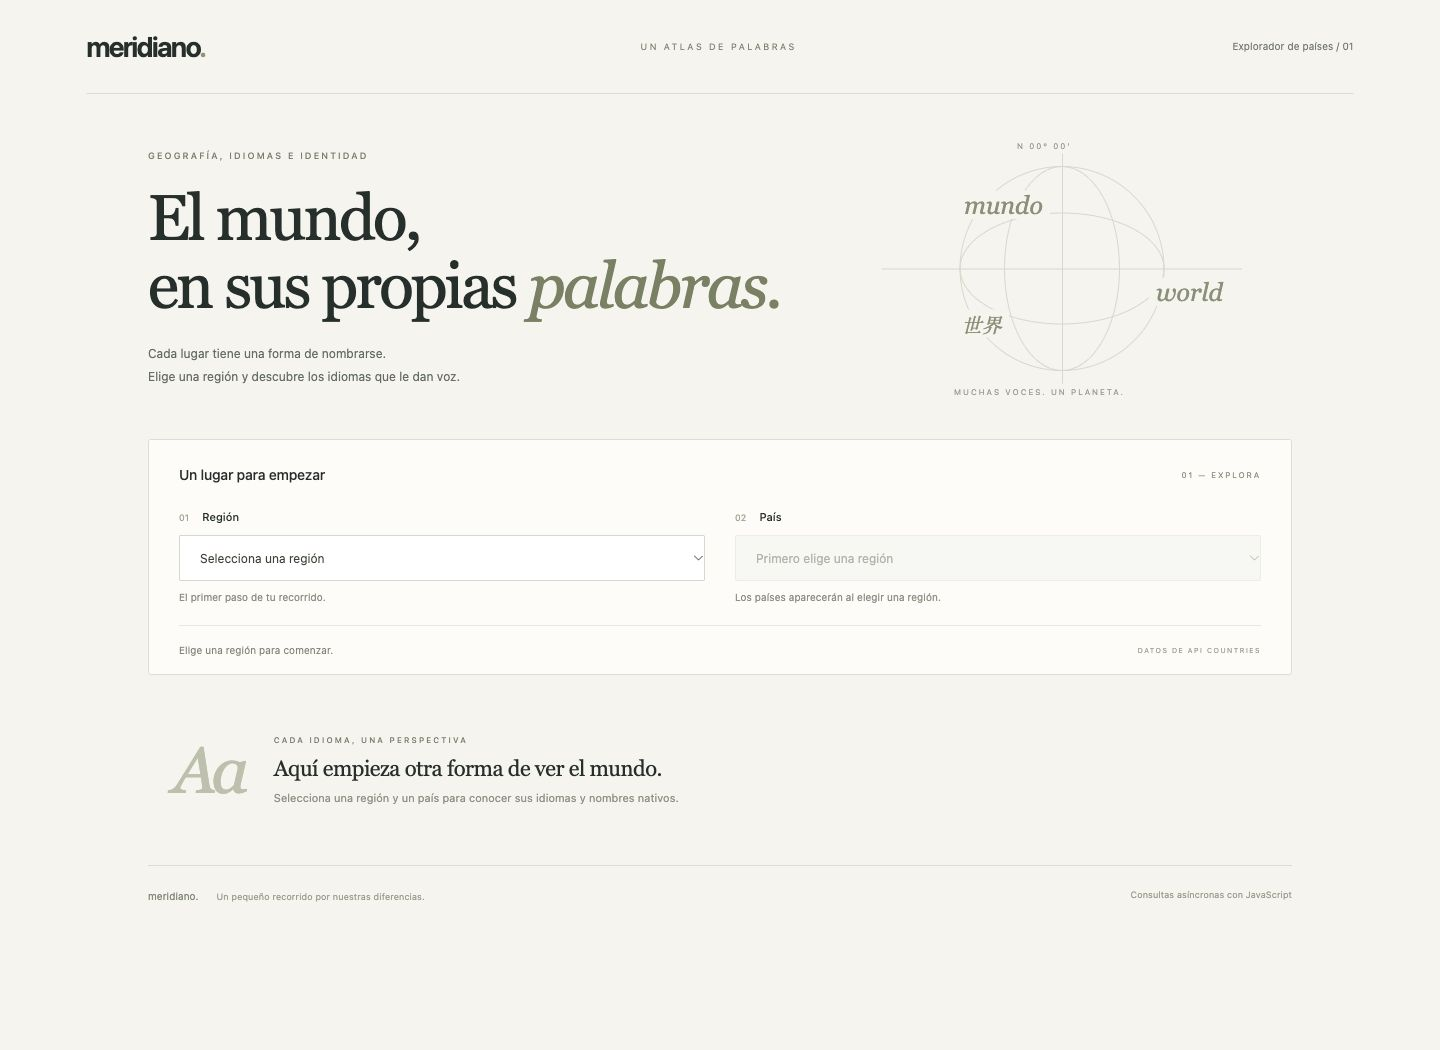
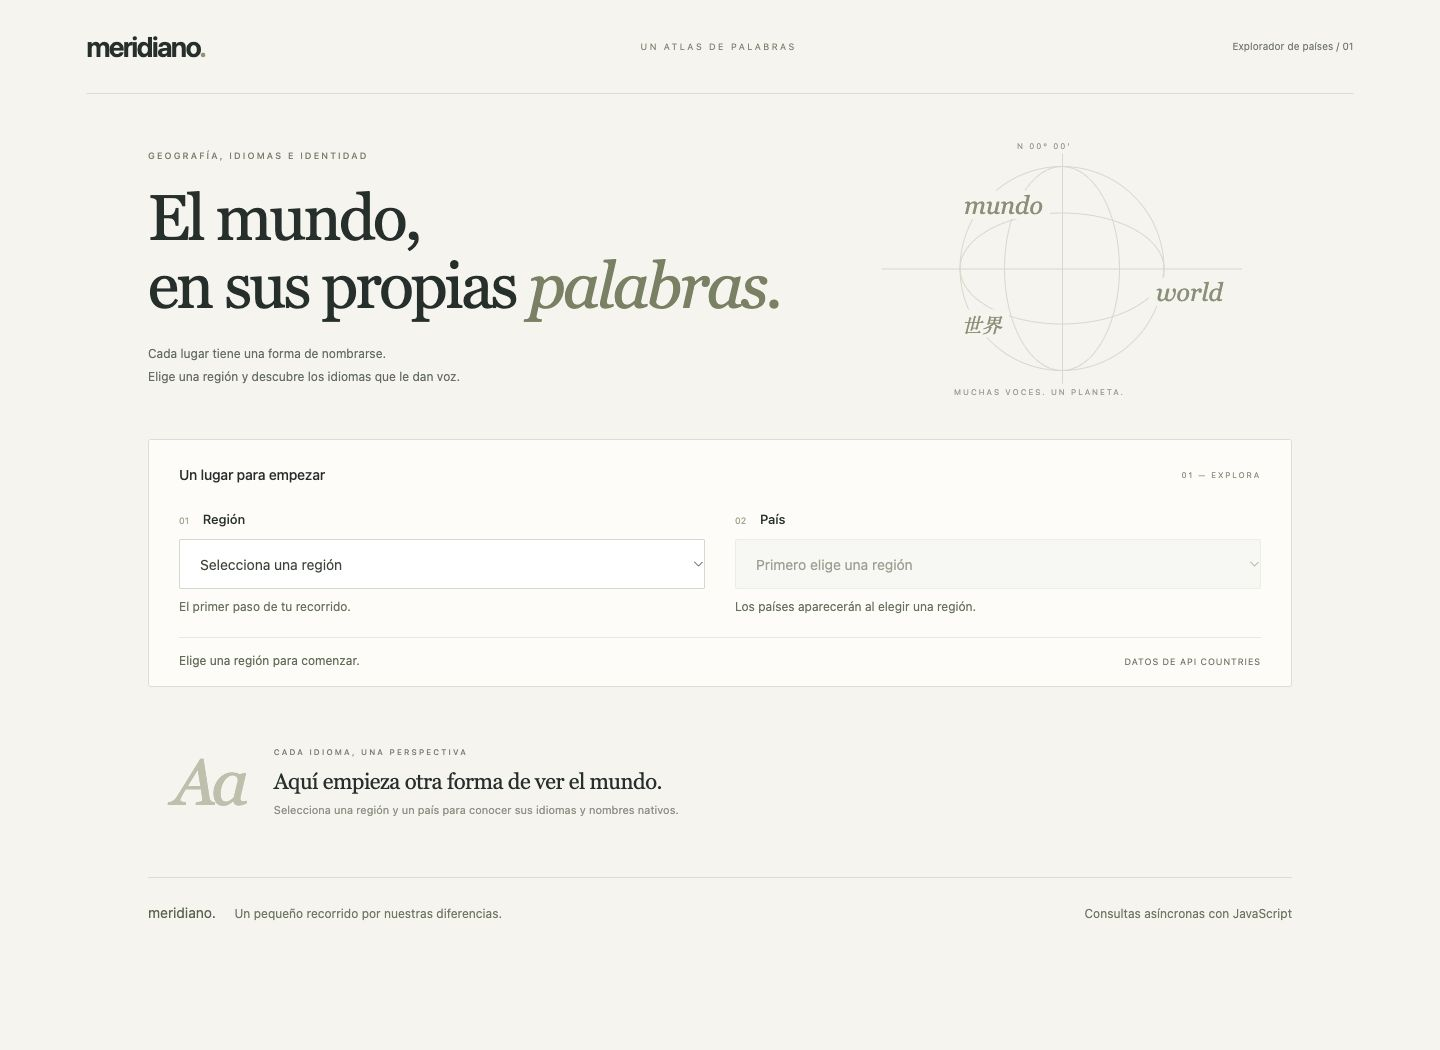
Mejorar legibilidad de selectores y localizar países e idiomas al español

diff --git a/estilos.css b/estilos.css
@@ -1,1 +1,25 @@
 :root{--papel:#f6f4ef;--tinta:#242f2b;--secundario:#626c63;--linea:#dcded4;--acento:#6b7354;--blanco:#fdfcf9}*{box-sizing:border-box}body{margin:0;background:var(--papel);color:var(--tinta);font:14px/1.6 -apple-system,BlinkMacSystemFont,'Segoe UI',sans-serif}button,select{font:inherit}a{color:inherit}.cabecera{height:94px;border-bottom:1px solid var(--linea);display:flex;align-items:center;justify-content:space-between;margin:0 6%;gap:20px}.marca{font-size:28px;letter-spacing:-1.7px;font-weight:650;text-decoration:none}.marca span{color:#8e9573}.cabecera-descripcion{font-size:9px;letter-spacing:2.3px;color:#7c826f}.edicion{font-size:10px;color:#727a6e}main{max-width:1240px;margin:auto;padding:0 48px}.presentacion{display:grid;grid-template-columns:1.4fr 1fr;align-items:center;min-height:345px;gap:40px;padding:36px 0 32px}.antetitulo{font-size:9px;letter-spacing:2px;font-weight:500;color:#7a806d;margin:0 0 20px}h1{font:normal clamp(40px,4.5vw,64px)/1.07 Georgia,'Times New Roman',serif;letter-spacing:-2.6px;margin:0}h1 em{font-weight:400;color:#788061}.descripcion{color:var(--secundario);font-size:12px;line-height:1.9;margin:22px 0 0}.composicion{height:260px;position:relative;max-width:360px;width:100%;justify-self:center;overflow:hidden}.orbita{position:absolute;left:50%;top:50%;border:1px solid #d6d9cb;border-radius:50%;width:205px;height:205px;transform:translate(-50%,-50%)}.orbita-dos{width:116px}.orbita-tres{height:112px}.composicion:before,.composicion:after{content:'';position:absolute;background:#d6d9cb}.composicion:before{height:1px;left:0;right:0;top:50%}.composicion:after{width:1px;top:15px;bottom:15px;left:50%}.palabra{position:absolute;z-index:1;font:italic 25px Georgia,serif;color:#8a9177;background:var(--papel);padding:0 7px}.palabra-uno{top:52px;left:75px}.palabra-dos{top:139px;right:12px}.palabra-tres{top:171px;left:73px;font-size:20px}.coordenada{position:absolute;font-size:8px;letter-spacing:1.8px;color:#9b9e8d;background:var(--papel);z-index:1}.superior{top:1px;left:135px}.inferior{bottom:0;left:72px}.explorador{background:var(--blanco);border:1px solid var(--linea);border-radius:3px;padding:24px 30px 0}.seccion-cabecera{display:flex;justify-content:space-between;align-items:center;gap:15px;margin-bottom:22px}.seccion-cabecera h2{font-size:14px;font-weight:500;margin:0;letter-spacing:-.2px}.seccion-cabecera>span{font-size:8px;letter-spacing:1.7px;color:#8e937f}.selectores{display:grid;grid-template-columns:1fr 1fr;gap:30px}.campo label{display:block;font-size:11px;font-weight:500;margin-bottom:9px}.campo label span{font-size:9px;color:#a1a48c;font-weight:400;margin-right:10px}select{width:100%;padding:12px 16px;border:1px solid #d4d8cb;border-radius:2px;color:#394436;background:#fff;font-size:12px;min-height:46px;cursor:pointer}select:disabled{color:#919789;background:#f5f5ef;border-color:#e5e6dc;cursor:not-allowed}.campo p{font-size:10px;color:#8b9181;margin:8px 0 20px}.barra-estado{border-top:1px solid #e7e8df;min-height:49px;display:flex;align-items:center;gap:14px}.barra-estado p{font-size:10px;color:#7f8775;margin:10px 0}.barra-estado .origen{margin-left:auto;font-size:7px;letter-spacing:1.3px;color:#9da18f;white-space:nowrap}button{font-size:10px;background:none;border:0;border-bottom:1px solid #778163;color:#53623e;padding:3px 0;cursor:pointer}.barra-estado.error p{color:#a34537}.barra-estado.cargando{background:linear-gradient(90deg,transparent,#e9eddf,transparent);background-size:200% 100%;animation:carga 2s ease infinite}@keyframes carga{to{background-position:-200% 0}}.vacio{display:flex;align-items:center;gap:30px;padding:42px 25px;min-height:190px}.numero-editorial{font:italic 65px Georgia,serif;color:#bcc0aa;letter-spacing:-5px}.vacio .antetitulo{font-size:8px;margin-bottom:10px}.vacio h2{font:normal 22px Georgia,serif;letter-spacing:-.5px;margin:0 0 8px}.vacio p:last-child{font-size:11px;color:#8c9383;margin:0}.resultado{margin:32px 0 35px}.resultado-cabecera{display:flex;justify-content:space-between;align-items:center;margin-bottom:25px;gap:20px}.resultado .antetitulo{font-size:8px;margin-bottom:8px}.resultado h2{font:normal 38px/1.2 Georgia,serif;letter-spacing:-1px;margin:0;overflow-wrap:anywhere}.nombre-nativo{font-size:10px;color:#969c8b;margin:10px 0 0}.nombre-nativo span{display:inline-block;color:#67745b;margin-left:10px;font-size:12px}.conteo{text-align:right;flex-shrink:0}.conteo strong{display:block;font:normal 37px Georgia,serif;color:#7c8569}.conteo>span{font-size:7px;letter-spacing:1.4px;color:#9da18e}.tabla-contenedor{overflow:auto;border:1px solid var(--linea);border-radius:3px}table{border-collapse:collapse;width:100%;text-align:left}th{font-weight:500;font-size:9px;letter-spacing:1px;color:#79836b;background:#eeefe7;width:50%;padding:14px 25px}th span{font-size:9px;font-weight:400;color:#9ca38f;letter-spacing:0;margin-left:10px}td{font-size:12px;padding:17px 25px;background:#fdfcf9;border-top:1px solid #e5e7dd;color:#4e5e47}td:nth-child(2){font-size:16px;font-family:Georgia,'Times New Roman',serif}tbody tr:hover td{background:#f0f2e8}.nota-tabla{font-size:9px;color:#979e8b;margin-top:12px}footer{border-top:1px solid var(--linea);display:flex;justify-content:space-between;gap:20px;padding:22px 0 30px;color:#808876;font-size:10px}.pie-detalle{color:#999f8d;margin-left:15px;font-size:9px}footer>span:last-child{font-size:9px;color:#999f8d}.solo-lectores{position:absolute;width:1px;height:1px;overflow:hidden;clip-path:inset(50%)}:focus-visible{outline:2px solid #7b8766;outline-offset:4px}.saltar{position:fixed;left:15px;top:-90px;background:white;padding:12px;z-index:3}.saltar:focus{top:10px}[hidden]{display:none!important}@media(max-width:760px){.cabecera{height:75px;margin:0 24px}.cabecera-descripcion{display:none}.edicion{font-size:9px}.marca{font-size:25px}main{padding:0 24px}.presentacion{grid-template-columns:1fr;gap:0;padding:36px 0;min-height:0}.composicion{display:none}h1{font-size:45px;letter-spacing:-2px}.antetitulo{font-size:8px}.descripcion{font-size:11px}.explorador{padding:22px 20px 0}.selectores{grid-template-columns:1fr;gap:0}.seccion-cabecera>span{font-size:7px}.campo p{margin-bottom:19px}.barra-estado{flex-wrap:wrap;gap:0 10px;padding:9px 0}.barra-estado .origen{display:none}.barra-estado p{margin:0}.vacio{padding:32px 0;gap:19px}.numero-editorial{font-size:49px}.vacio h2{font-size:20px}.vacio p:last-child{font-size:10px}.resultado h2{font-size:32px}.resultado-cabecera{gap:15px}.conteo>span{font-size:6px}.conteo strong{font-size:30px}.nombre-nativo span{display:block;margin-left:0}.tabla-contenedor th,.tabla-contenedor td{padding:13px 15px}th span{display:block;margin:3px 0 0}.pie-detalle{display:block;margin:5px 0 0}footer{font-size:10px}footer>span:last-child{max-width:100px;text-align:right}}@media(prefers-reduced-motion:reduce){*{animation:none!important;scroll-behavior:auto!important}}
+
+/* Ajustes de lectura y alineación para controles y contenido inferior. */
+.campo{min-width:0}
+.campo label{font-size:13px;margin-bottom:10px}
+select{font-size:14px;min-height:50px;padding:12px 38px 12px 16px;line-height:1.5;max-width:100%;text-overflow:ellipsis}
+select:hover:not(:disabled){border-color:#8b9779}
+select:disabled{color:#707965}
+.campo p{font-size:12px;color:#65715c;min-height:20px}
+.barra-estado{padding:13px 0;align-items:flex-start;flex-wrap:wrap;gap:8px 16px}
+.barra-estado p{font-size:12px;color:#5f6c55;margin:0;flex:1 1 280px}
+.barra-estado .origen{font-size:9px;color:#6e795f;align-self:center;letter-spacing:.8px}
+.barra-estado button{font-size:12px;min-height:32px}
+th{font-size:11px;color:#546149}
+th span{font-size:11px;color:#6b775e}
+td{font-size:14px;padding-top:18px;padding-bottom:18px}
+.nombre-nativo{font-size:12px;color:#66745b}
+.nombre-nativo span{font-size:14px;color:#43543b}
+.resultado .antetitulo{font-size:10px;color:#67745b}
+.conteo>span{font-size:9px;color:#647157;letter-spacing:1px}
+.nota-tabla{font-size:12px;line-height:1.8;color:#6d775f;margin-top:16px;max-width:760px}
+footer{padding:24px 0 32px;align-items:baseline;font-size:14px;color:#58654c}
+.pie-detalle{font-size:12px;color:#6c775f;line-height:1.8}
+footer>span:last-child{font-size:12px;color:#6c775f}
+@media(max-width:760px){.barra-estado p{flex-basis:100%}.campo p{min-height:0}.conteo>span{font-size:8px}.resultado-cabecera{align-items:flex-start}.nota-tabla{font-size:11px}footer{flex-direction:column;gap:14px}footer>span:last-child{max-width:none;text-align:left}.pie-detalle{margin-top:7px}.campo select{font-size:16px}.nombre-nativo span{margin-top:3px}}

diff --git a/index.html b/index.html
@@ -17,7 +17,7 @@
     <section class="presentacion" aria-labelledby="titulo"><div class="introduccion"><p class="antetitulo">GEOGRAFÍA, IDIOMAS E IDENTIDAD</p><h1 id="titulo">El mundo,<br>en sus propias <em>palabras.</em></h1><p class="descripcion">Cada lugar tiene una forma de nombrarse.<br>Elige una región y descubre los idiomas que le dan voz.</p></div><div class="composicion" aria-hidden="true"><div class="orbita orbita-uno"></div><div class="orbita orbita-dos"></div><div class="orbita orbita-tres"></div><span class="coordenada superior">N 00° 00′</span><span class="palabra palabra-uno">mundo</span><span class="palabra palabra-dos">world</span><span class="palabra palabra-tres">世界</span><span class="coordenada inferior">MUCHAS VOCES. UN PLANETA.</span></div></section>
     <section class="explorador" aria-labelledby="titulo-explorador"><div class="seccion-cabecera"><h2 id="titulo-explorador">Un lugar para empezar</h2><span>01 — EXPLORA</span></div><div class="selectores"><div class="campo"><label for="region"><span>01</span> Región</label><select id="region" aria-describedby="ayuda-region"><option value="">Selecciona una región</option></select><p id="ayuda-region">El primer paso de tu recorrido.</p></div><div class="campo"><label for="pais"><span>02</span> País</label><select id="pais" disabled aria-describedby="ayuda-pais"><option value="">Primero elige una región</option></select><p id="ayuda-pais">Los países aparecerán al elegir una región.</p></div></div><div class="barra-estado"><p id="estado" role="status" aria-live="polite" aria-atomic="true">Elige una región para comenzar.</p><button id="reintentar" type="button" hidden>Volver a intentar</button><span class="origen">DATOS DE API COUNTRIES</span></div></section>
     <section class="vacio" id="vacio" aria-labelledby="titulo-vacio"><span class="numero-editorial" aria-hidden="true">Aa</span><div><p class="antetitulo">CADA IDIOMA, UNA PERSPECTIVA</p><h2 id="titulo-vacio">Aquí empieza otra forma de ver el mundo.</h2><p id="mensaje-vacio">Selecciona una región y un país para conocer sus idiomas y nombres nativos.</p></div></section>
-    <section id="resultado" class="resultado" hidden aria-labelledby="nombre-pais"><div class="resultado-cabecera"><div><p id="ruta-pais" class="antetitulo"></p><h2 id="nombre-pais"></h2><p class="nombre-nativo">Nombre nativo del país <span id="nombre-nativo"></span></p></div><div class="conteo"><strong id="cantidad-idiomas"></strong><span id="etiqueta-idiomas">IDIOMAS REGISTRADOS</span></div></div><div class="tabla-contenedor" tabindex="0" role="region" aria-label="Idiomas y nombres nativos"><table><caption class="solo-lectores">Idiomas del país seleccionado y sus nombres nativos</caption><thead><tr><th scope="col">IDIOMA <span>Language</span></th><th scope="col">NOMBRE NATIVO <span>Native name</span></th></tr></thead><tbody id="idiomas"></tbody></table></div><p class="nota-tabla">Los nombres se muestran tal como los proporciona la fuente. La disponibilidad varía por país.</p></section>
+    <section id="resultado" class="resultado" hidden aria-labelledby="nombre-pais"><div class="resultado-cabecera"><div><p id="ruta-pais" class="antetitulo"></p><h2 id="nombre-pais"></h2><p class="nombre-nativo">Nombre nativo del país <span id="nombre-nativo"></span></p></div><div class="conteo"><strong id="cantidad-idiomas"></strong><span id="etiqueta-idiomas">IDIOMAS REGISTRADOS</span></div></div><div class="tabla-contenedor" tabindex="0" role="region" aria-label="Idiomas y nombres nativos"><table><caption class="solo-lectores">Idiomas del país seleccionado y sus nombres nativos</caption><thead><tr><th scope="col">IDIOMA <span>Language</span></th><th scope="col">NOMBRE NATIVO <span>Native name</span></th></tr></thead><tbody id="idiomas"></tbody></table></div><p class="nota-tabla">Los nombres nativos se conservan tal como los proporciona la fuente. La disponibilidad varía por país.</p></section>
     <footer><span>meridiano. <span class="pie-detalle">Un pequeño recorrido por nuestras diferencias.</span></span><span>Consultas asíncronas con JavaScript</span></footer>
   </main>
 </body>

diff --git a/pruebas.test.js b/pruebas.test.js
@@ -1,4 +1,5 @@
 import prueba from 'node:test';
+import { localizarDatosPais } from './localizacion.js';
 import verificar from 'node:assert/strict';
 import { crearPais, regiones } from './dominio.js';
 import { ConsultarPaises } from './consultar-paises.js';
@@ -47,4 +48,14 @@ prueba('un fallo permite presentar el estado de reintento', async () => {
   const controlador = new ControladorPaises({ regiones, vista, consulta: { ejecutar: async () => { throw new Error('Sin conexión'); } } });
   await controlador.cambiarRegion('asia');
   verificar.equal(vista.estados.at(-1)[1], 'error');
+});
+
+prueba('localiza Perú e idiomas sin modificar los nombres nativos', () => {
+  const pais = localizarDatosPais({ name: 'Peru', alpha2Code: 'PE', nativeName: 'Perú', languages: [{ name: 'Spanish', iso639_1: 'es', nativeName: 'Español' }] });
+  verificar.equal(pais.name, 'Perú');
+  verificar.equal(pais.languages[0].name, 'Español');
+  verificar.equal(pais.languages[0].nativeName, 'Español');
+});
+prueba('conserva la fuente cuando falta un código de traducción válido', () => {
+  verificar.equal(localizarDatosPais({ name: 'País de ejemplo', languages: [{ name: 'Idioma de ejemplo', iso639_1: '??' }] }).languages[0].name, 'Idioma de ejemplo');
 });

diff --git a/localizacion.js b/localizacion.js
@@ -1,0 +1,18 @@
+/** Adaptador de idioma: traduce etiquetas y conserva los nombres nativos originales. */
+export function localizarDatosPais(datos, idioma = 'es') {
+  const nombresRegiones = new Intl.DisplayNames([idioma], { type: 'region', fallback: 'none' });
+  const nombresIdiomas = new Intl.DisplayNames([idioma], { type: 'language', fallback: 'none' });
+  const codigoPais = datos.alpha2Code;
+  const nombrePais = typeof codigoPais === 'string' && /^[a-z]{2}$/i.test(codigoPais)
+    ? nombresRegiones.of(codigoPais.toUpperCase()) : null;
+  return {
+    ...datos,
+    name: nombrePais || datos.name,
+    languages: Array.isArray(datos.languages) ? datos.languages.map(lengua => {
+      const codigo = lengua.iso639_1;
+      const nombre = typeof codigo === 'string' && /^[a-z]{2,3}$/i.test(codigo)
+        ? nombresIdiomas.of(codigo.toLowerCase()) : null;
+      return { ...lengua, name: nombre ? nombre.charAt(0).toLocaleUpperCase(idioma) + nombre.slice(1) : lengua.name };
+    }) : datos.languages
+  };
+}

diff --git a/repositorio-paises.js b/repositorio-paises.js
@@ -1,4 +1,5 @@
 import { crearPais } from './dominio.js';
+import { localizarDatosPais } from './localizacion.js';
 
 /** Infraestructura: adapta HTTP al contrato obtenerPorRegion del caso de uso. */
 export class RepositorioPaises {
@@ -12,6 +13,6 @@ export class RepositorioPaises {
     if (!respuesta.ok) throw new Error('No pudimos consultar los países. Vuelve a intentarlo.');
     const datos = await respuesta.json();
     if (!Array.isArray(datos)) throw new Error('La fuente devolvió una respuesta inesperada.');
-    return datos.map(crearPais).sort((primero, segundo) => primero.nombre.localeCompare(segundo.nombre, 'es'));
+    return datos.map(dato => crearPais(localizarDatosPais(dato))).sort((primero, segundo) => primero.nombre.localeCompare(segundo.nombre, 'es'));
   }
 }

diff --git a/README.md b/README.md
@@ -69,7 +69,7 @@ GET https://countries.dev/region/asia
 
 REST Countries v3.1 fue verificada durante el desarrollo y respondió con un aviso de descontinuación, por lo que no se utiliza en esta implementación. Las regiones son estáticas, como permite la alternativa de la consigna: África, América, Asia, Europa, Oceanía y Polar.
 
-Los nombres se conservan tal como los devuelve la fuente; no se inventan traducciones ni idiomas ausentes. La disponibilidad y la vigencia de los datos dependen del servicio externo.
+Los países y los idiomas se presentan en español con `Intl.DisplayNames`, usando los códigos ISO de la respuesta. Así, Perú aparece con tilde y Japan como Japón. Los nombres nativos se conservan exactamente como los devuelve la fuente. Si no hay un código reconocido, se mantiene la etiqueta original; no se inventan idiomas ausentes. La disponibilidad y la vigencia de los datos dependen del servicio externo.
 
 ## Funcionamiento
 
@@ -97,6 +97,7 @@ Todos los archivos se encuentran en la raíz del proyecto.
 
 | Archivo | Capa y responsabilidad |
 |---|---|
+| `localizacion.js` | Adaptador de nombres de países e idiomas al español con códigos ISO. |
 | `dominio.js` | Modelo de país, normalización de idiomas y catálogo de regiones. |
 | `consultar-paises.js` | Caso de uso para consultar una región válida. |
 | `repositorio-paises.js` | Adaptador HTTP que transforma la respuesta externa al modelo propio. |
@@ -113,19 +114,19 @@ Se utilizan nombres propios en español, `textContent` para representar datos co
 
 ## Resultado esperado
 
-Al seleccionar **América** y luego **Peru**:
+Al seleccionar **América** y luego **Perú**:
 
 | Language | Native name |
 |---|---|
-| Spanish | Español |
+| Español | Español |
 
 Nombre nativo del país: **Perú**.
 
-Al seleccionar **Asia** y luego **Japan**:
+Al seleccionar **Asia** y luego **Japón**:
 
 | Language | Native name |
 |---|---|
-| Japanese | 日本語 (にほんご) |
+| Japonés | 日本語 (にほんご) |
 
 Nombre nativo del país: **日本**.
 
@@ -137,7 +138,7 @@ Estos resultados corresponden a la respuesta observada durante la comprobación;
 npm test
 ```
 
-Seis pruebas automatizadas verifican la normalización de datos, el rechazo de regiones inválidas, la señal de cancelación y ordenamiento, los errores HTTP y de formato, el descarte de respuestas antiguas y el estado de reintento.
+Ocho pruebas automatizadas verifican la normalización de datos, el rechazo de regiones inválidas, la señal de cancelación y ordenamiento, los errores HTTP y de formato, el descarte de respuestas antiguas el estado de reintento, la localización de Perú y la conservación de etiquetas sin código válido.
 
 También se verificó en el navegador la consulta real de América y Perú y el cambio a Asia y Japón, con recarga del selector y limpieza del resultado anterior.
 
